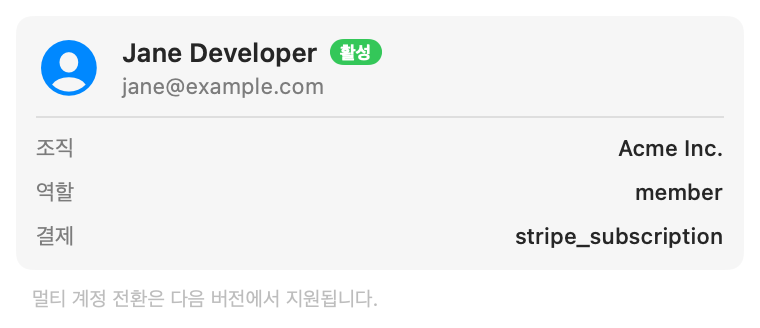
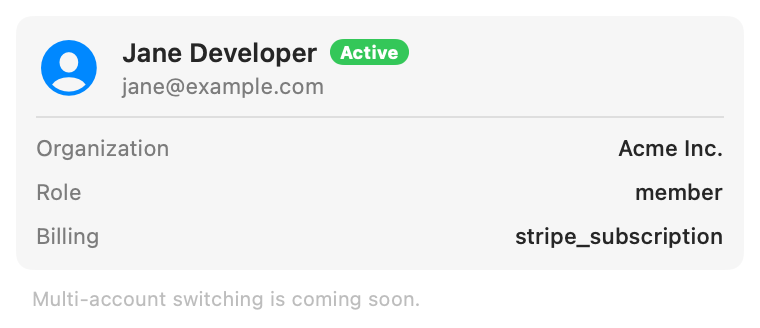
[UPDATE] 영/한 스크린샷 분리, README(영/한) 갱신, 체인지로그

diff --git a/README-kr.md b/README-kr.md
@@ -16,7 +16,7 @@
   <img alt="License: MIT" src="https://img.shields.io/badge/License-MIT-yellow" />
 </p>
 
-<img src="docs/images/sessions.png" alt="Claude Bar — 세션" width="340" />
+<img src="docs/images/ko/sessions.png" alt="Claude Bar — 세션" width="340" />
 
 </div>
 
@@ -28,13 +28,14 @@
 
 - 🖥 **세션 관리** — 실행 중 / 대기 / 종료 상태, 작업 위치(cwd), git 브랜치, 사용 모델을 한 목록에서.
 - 🔭 **실시간 활동** — 실행 중인 세션이 지금 뭐 하는지: 실행 중인 툴(`▶ Bash: npm test`) 또는 마지막 메시지.
+- 🔑 **권한 모드** — 세션별 현재 모드를 한눈에: `PLAN` / `ACCEPT`(편집 수락) / `BYPASS`(`--dangerously-skip-permissions`).
 - 🔍 **검색 · 필터 · 즐겨찾기** — 프로젝트 검색, 상태 필터(전체/실행 중/종료), 자주 쓰는 프로젝트 ★ 핀 고정.
 - 📊 **세션별 컨텍스트 한도** — 각 세션의 컨텍스트 사용량을 표시. `200K` / `1M` 윈도우를 자동 추론(설정의 `[1m]` 모델 기록 + 관측된 최대 컨텍스트).
 - ⚡ **클릭 → 점프 / 복구**
   - **실행 중** 세션 클릭 → 해당 **터미널 탭을 맨 앞으로**.
   - **종료된** 세션 클릭 → **새 터미널 창**에서 `cd` 후 `claude --resume`로 그 세션 복구.
 - 🔔 **알림** — 세션이 **작업을 끝내고 입력을 기다릴 때**, 또는 세션 컨텍스트(80%)·사용 한도(90%) 임박 시 알림.
-- ⌨ **빠른 액션** — 디렉토리를 골라 **새 세션 시작**, 실행 중 세션 **종료(kill)**, 우클릭으로 "Finder에서 열기 / 경로 복사".
+- ⌨ **빠른 액션** — 디렉토리를 골라 **새 세션 시작**(원하면 `--dangerously-skip-permissions`로), 실행 중 세션 **종료(kill)**, 우클릭으로 "Finder에서 열기 / 경로 복사".
 - 📈 **사용량**
   - **공식 사용 한도** — Claude Code `/usage`와 동일한 데이터: 5시간 세션, 7일(전체/Sonnet) **% 사용 + 리셋까지 남은 시간**.
   - **비용** — 오늘 / 7일 / 30일 추정 비용(토큰 × API 단가).
@@ -42,7 +43,7 @@
   - **로컬 토큰 집계** — 최근 5시간 / 7일 토큰 합계, **일별 히스토그램**(로컬 기준), 모델별 누적.
 - 🧩 **MCP** — 전역 및 프로젝트별 MCP 서버 목록과 **on/off 토글**(`~/.claude.json`을 안전하게 수정).
 - 👤 **계정** — 현재 연동된 Claude 계정(이메일·조직·역할).
-- ⚙ **설정** — 알림 토글, 경고 임계치 조절, 사용할 터미널 선택, 로그인 시 자동 실행.
+- ⚙ **설정** — **언어(English / 한국어)** 전환, 알림 토글, 경고 임계치 조절, 사용할 터미널 선택, 로그인 시 자동 실행.
 - 🎛 **다듬은 UX** — 최근 세션은 기본 회색, 마우스 오버 시 컬러. 라이브 세션 컨텍스트가 높으면 메뉴바 아이콘이 경고로 전환.
 - 🔒 **로컬 전용** — 선택적 인증 사용량 조회 외에 네트워크 호출 없음. 그 외에는 `~/.claude` 파일만 읽습니다.
 
@@ -54,16 +55,16 @@
     <td align="center"><b>사용량</b></td>
   </tr>
   <tr>
-    <td><img src="docs/images/sessions.png" width="300" alt="세션" /></td>
-    <td><img src="docs/images/usage.png" width="300" alt="사용량" /></td>
+    <td><img src="docs/images/ko/sessions.png" width="300" alt="세션" /></td>
+    <td><img src="docs/images/ko/usage.png" width="300" alt="사용량" /></td>
   </tr>
   <tr>
     <td align="center"><b>MCP</b></td>
     <td align="center"><b>계정</b></td>
   </tr>
   <tr>
-    <td><img src="docs/images/mcp.png" width="300" alt="MCP" /></td>
-    <td><img src="docs/images/account.png" width="300" alt="계정" /></td>
+    <td><img src="docs/images/ko/mcp.png" width="300" alt="MCP" /></td>
+    <td><img src="docs/images/ko/account.png" width="300" alt="계정" /></td>
   </tr>
 </table>
 
@@ -141,6 +142,7 @@ Sources/ClaudeBar/
 - [x] MCP on/off 토글
 - [x] 알림 · 실시간 활동 · 비용 추적 · 빠른 액션
 - [x] 설정 · 검색/필터/즐겨찾기 · 프로젝트별 집계
+- [x] 현지화(English / 한국어) · 권한 모드 뱃지
 - [ ] 패널 여는 전역 단축키 (NSStatusItem 리팩터 필요)
 - [ ] OAuth 토큰 만료 시 자동 refresh
 - [ ] 멀티 계정 전환

diff --git a/README.md b/README.md
@@ -28,13 +28,14 @@ When you run several Claude Code sessions across different terminals, Claude Bar
 
 - 🖥 **Session management** — running / waiting / ended status, working directory (cwd), git branch and model, all in one list.
 - 🔭 **Live activity** — each running session shows what it's doing right now: the tool it's invoking (`▶ Bash: npm test`) or its last message.
+- 🔑 **Permission mode** — each session shows its current mode at a glance: `PLAN` / `ACCEPT` (accept edits) / `BYPASS` (`--dangerously-skip-permissions`).
 - 🔍 **Search · filter · favorites** — search projects, filter by status (all / running / ended), and ★ pin frequently-used projects to the top.
 - 📊 **Per-session context window** — each session shows how much of its context window is used, with the `200K` / `1M` window auto-detected (from the project's `[1m]` model record + the largest observed context).
 - ⚡ **Click to jump / resume**
   - Click a **running** session → bring its **terminal tab to the front**.
   - Click an **ended** session → open a **new terminal window**, `cd` into its directory and `claude --resume` that exact session.
 - 🔔 **Notifications** — get notified when a session **finishes and is waiting for input**, or when a session's context (80%) or your usage limit (90%) is about to run out.
-- ⌨ **Quick actions** — start a **new session** in a chosen directory, **kill** a running session, or right-click for "reveal in Finder / copy path".
+- ⌨ **Quick actions** — start a **new session** in a chosen directory (optionally with `--dangerously-skip-permissions`), **kill** a running session, or right-click for "reveal in Finder / copy path".
 - 📈 **Usage**
   - **Official rate limits** — the same data as Claude Code's `/usage`: 5-hour session, 7-day week (and Sonnet-only) **% used + time until reset**.
   - **Cost** — estimated today / 7-day / 30-day spend (token counts × API rates).
@@ -42,7 +43,7 @@ When you run several Claude Code sessions across different terminals, Claude Bar
   - **Local token aggregation** — last 5h / 7d token totals, a **daily histogram** (local day), and per-model lifetime totals.
 - 🧩 **MCP** — list global and per-project MCP servers and **toggle them on/off** (safely edits `~/.claude.json`).
 - 👤 **Account** — the currently linked Claude account (email, organization, role).
-- ⚙ **Settings** — toggle notifications, tune the warning thresholds, pick which terminal to use, and launch at login.
+- ⚙ **Settings** — switch **language (English / 한국어)**, toggle notifications, tune the warning thresholds, pick which terminal to use, and launch at login.
 - 🎛 **Polished UX** — recent sessions are muted to grayscale until you hover them; the menu bar icon turns into a warning when a live session's context runs high.
 - 🔒 **Local-only** — no network calls except the optional, authenticated usage lookup. Everything else reads files under `~/.claude`.
 
@@ -141,6 +142,7 @@ Sources/ClaudeBar/
 - [x] MCP on/off toggle
 - [x] Notifications, live activity, cost tracking, quick actions
 - [x] Settings, search/filter/favorites, per-project breakdown
+- [x] Localization (English / 한국어), permission-mode badges
 - [ ] Global hotkey to open the panel (needs an NSStatusItem refactor)
 - [ ] OAuth token auto-refresh when expired
 - [ ] Multi-account switching

diff --git a/docs/change-log/2026-06-12.md b/docs/change-log/2026-06-12.md
@@ -252,6 +252,23 @@
 ### 변경 파일
 - `Services/UsageService.swift`(프로젝트 누적), `Core/ConfigStore.swift`(total), `Features/UsageView.swift`(ProjectUsageRow), `MockData.swift`
 
+## [ADD] 현지화(영/한) · 권한 모드 표시 · 권한 건너뛰기 새 세션
+
+### 현지화 (English / 한국어)
+- 경량 i18n(`Loc.swift`): 한글을 키로, 영어 번역 테이블 조회. 언어는 UserDefaults에서 읽어 스레드 무관(`L(_:)`, `isEnglish`).
+- 모든 UI 문자열을 `L()`로 감쌈. 설정에 **언어 선택**(English/한국어). 언어 변경 시 루트 뷰를 `.id(language)`로 재구성.
+- `Format.ago`/`resetIn`도 언어별. 영/한 스크린샷 별도 렌더(`docs/images/` = en, `docs/images/ko/` = ko). README는 영문(en 이미지), README-kr은 ko 이미지.
+
+### 권한 모드 뱃지
+- 세션 행에 현재 권한 모드 뱃지: `PLAN`(파랑) / `ACCEPT`(주황) / `BYPASS`(빨강). default는 미표시.
+- JSONL tail의 최신 `permissionMode` 필드에서 파싱(`Session.permissionMode`).
+
+### 권한 건너뛰기 새 세션
+- 헤더 `+`를 메뉴로: "새 세션" / "새 세션 · 권한 건너뛰기"(`--dangerously-skip-permissions`). `TerminalActivator.openNew(skipPermissions:)`.
+
+### 변경 파일
+- `Core/Loc.swift`(신규), `Core/Settings.swift`(language), `Core/Models.swift`(permissionMode), `Services/SessionScanner.swift`·`TerminalActivator.swift`, `AppState.swift`, `App.swift`, 모든 `Features/*`, `MockData.swift`, `docs/images/*`·`docs/images/ko/*`
+
 ## 이슈/논의
 - `/api/oauth/usage`는 비공식 엔드포인트라 스키마/동작이 예고 없이 바뀔 수 있음. 토큰 만료 시 자동 refresh는 미구현(Claude Code 사용 시 Keychain 토큰이 갱신됨에 의존).
 - 최초 fetch 시 앱이 Keychain 접근 허용 프롬프트를 띄울 수 있음(허용 필요).
